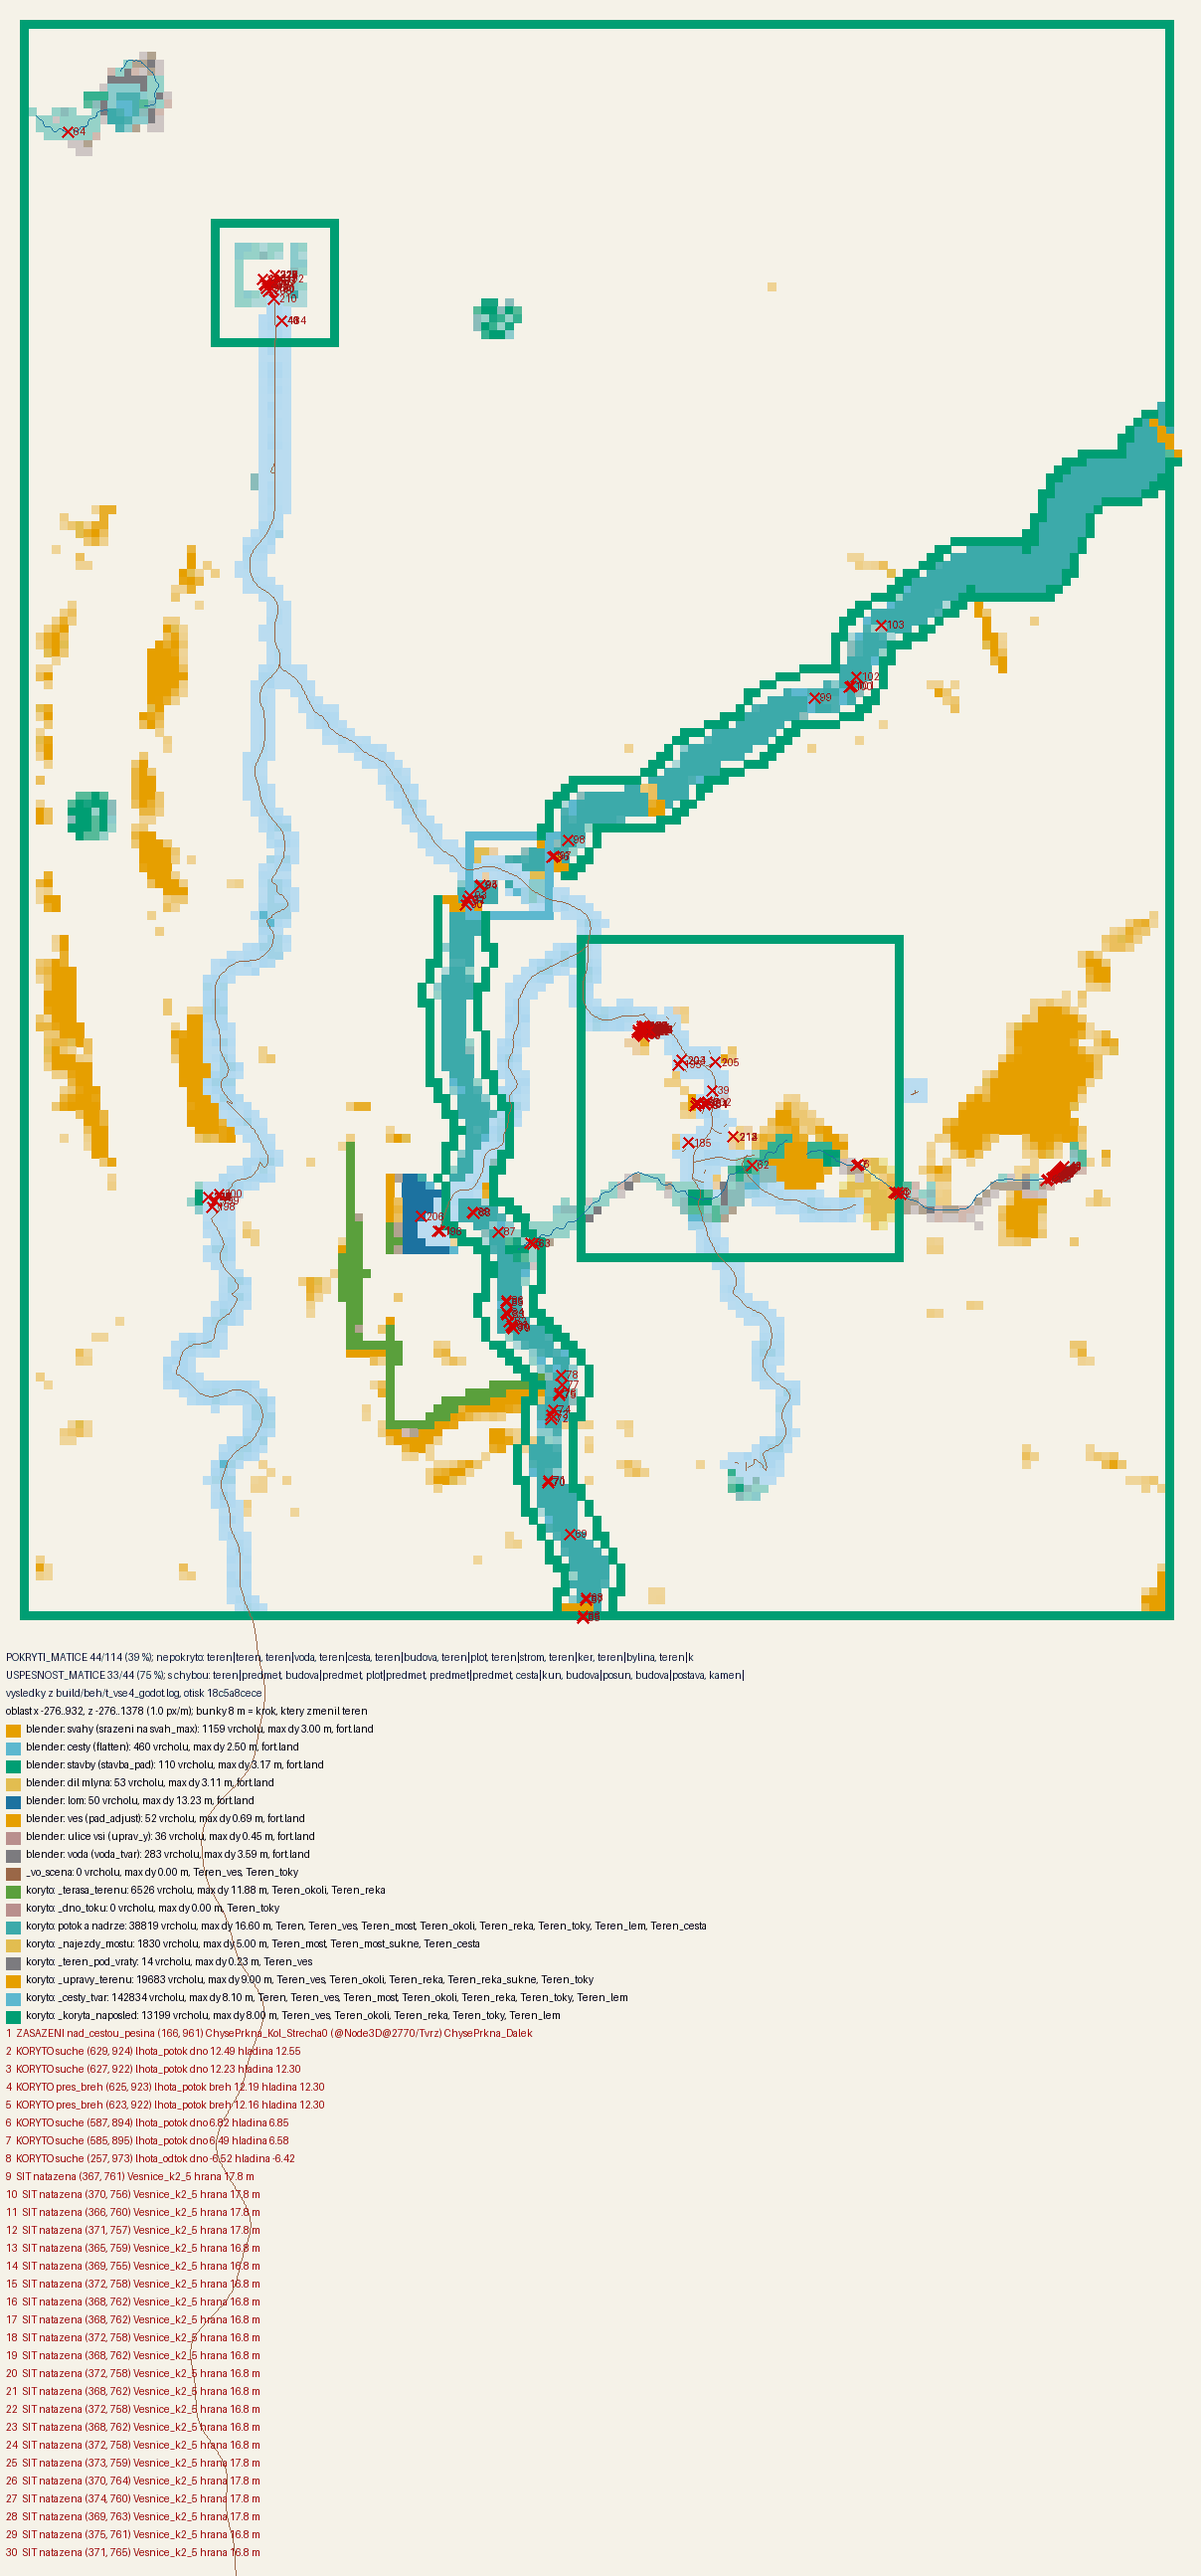
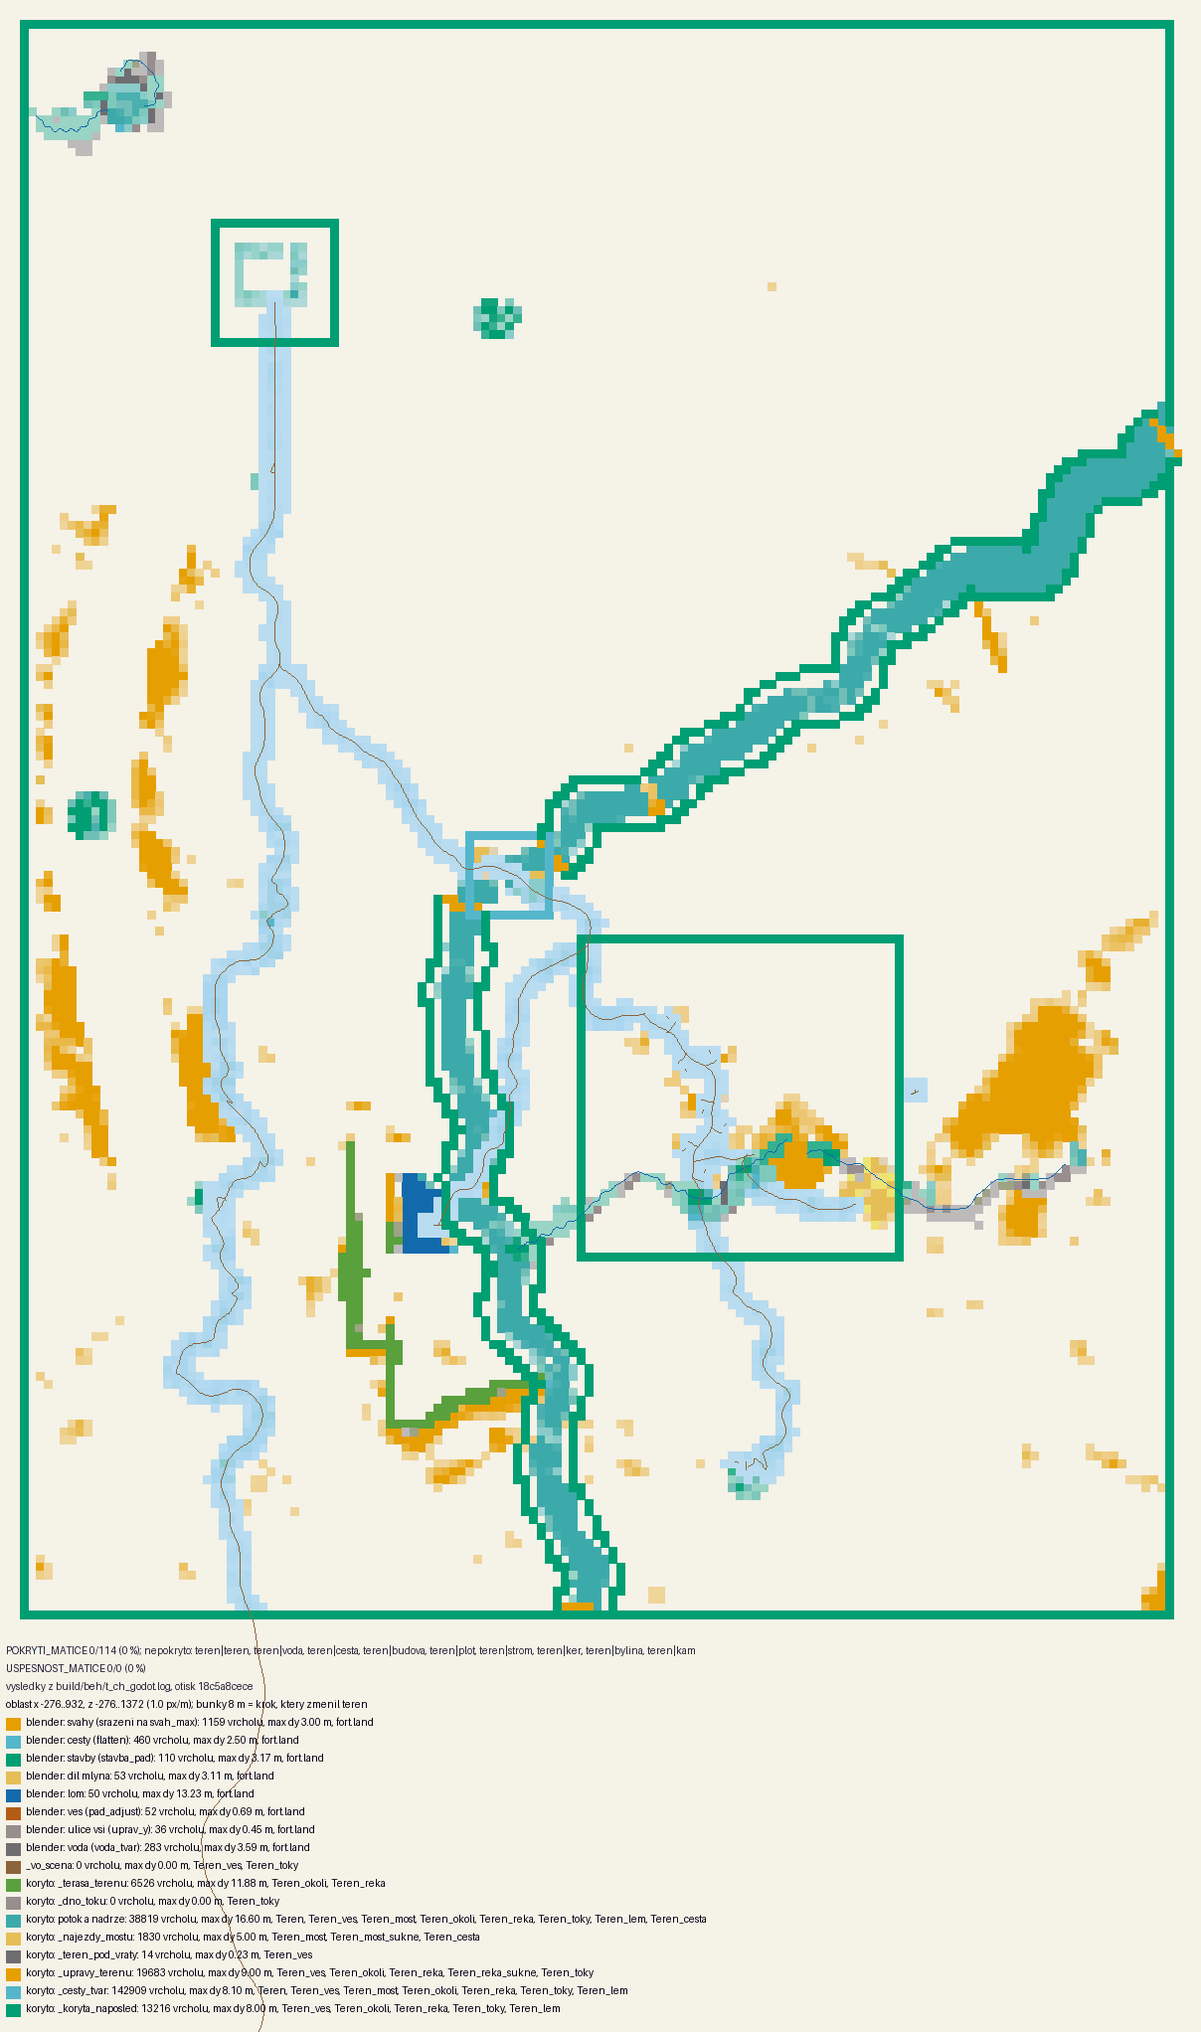
Plácky domů v Blenderu podle posunu domu ke štítu (rozpor #7); hra nepřepisuje masku ulice ve VES_BLENDER; focení: krok bufferu louky
Claude-Session: https://claude.ai/code/session_01WeT6YyZ78tWTNnktyKgoyQ

diff --git a/blender/vesnice.py b/blender/vesnice.py
@@ -1104,7 +1104,9 @@ def _pads():
             # placka podle podezdivky noveho domu (lokace.json ves.domy_podezdivka - totez ma hra v DUM_MER)
             mr = _lokace_ves()["domy_podezdivka"][typ]
             Fh = Frame((h["p"].x, h["p"].z), h["yaw"], 0.0)
-            cc = Fh.c + Fh.au * ((mr["f"] + mr["b"]) / 2.0)
+            # pocatek modelu hra posouva o au * (L/2 - f), aby predni podezdivka lezela v linii stitu stare chalupy
+            # (svet.gd _domy_ramce) - bez toho placka lezela 0,4-2,4 m vedle domu (kontrola 3. 11., rozpor #7)
+            cc = Fh.c + Fh.au * (h["L"] / 2.0 - mr["f"] + (mr["f"] + mr["b"]) / 2.0)
             chal = (Vector((cc.x, h["p"].y, cc.z)), h["yaw"], mr["f"] - mr["b"], 2.0 * mr["hw"])
         for (p, yaw, L, W) in (chal, h["barn"]) + ((h["kolna"],) if "kolna" in h else ()):
             F = Frame((p.x, p.z), yaw, 0.0)
